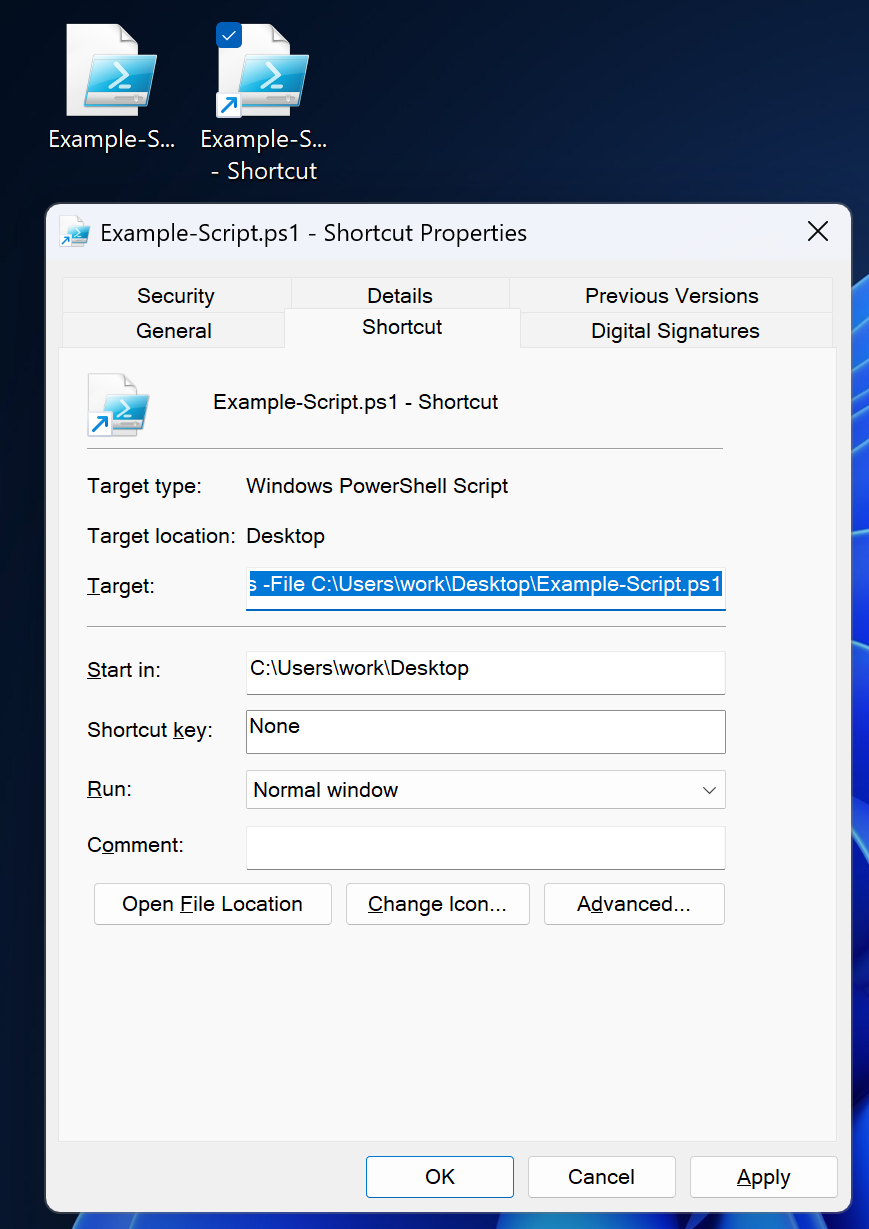
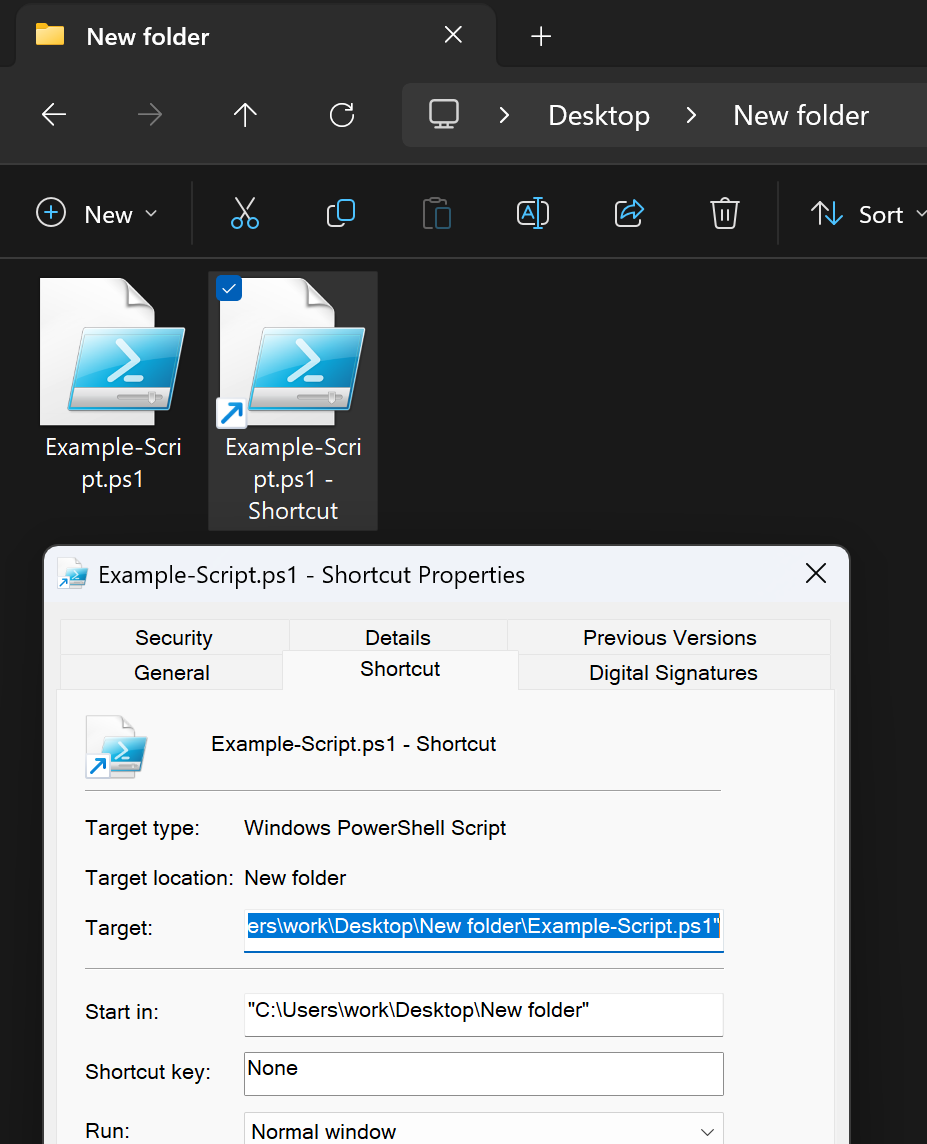
update docs

diff --git a/README.md b/README.md
@@ -25,6 +25,10 @@ Note the space between -File and the start of your file path.
 
 Clicking the shortcut you've just created will execute the script. Clicking the original script file will allow you to modify the script text. 
 
+The icon of the shortcut may change to something like: 
+
+![Screenshot of shortcut icon](./imgs/ShortcutIcon.png)
+
 > If you move the script file to a new folder after creating the shortcut, you'll need to recreate the shortcut so it points to the file's new location. 
 
 ## Passing arguments to your script
